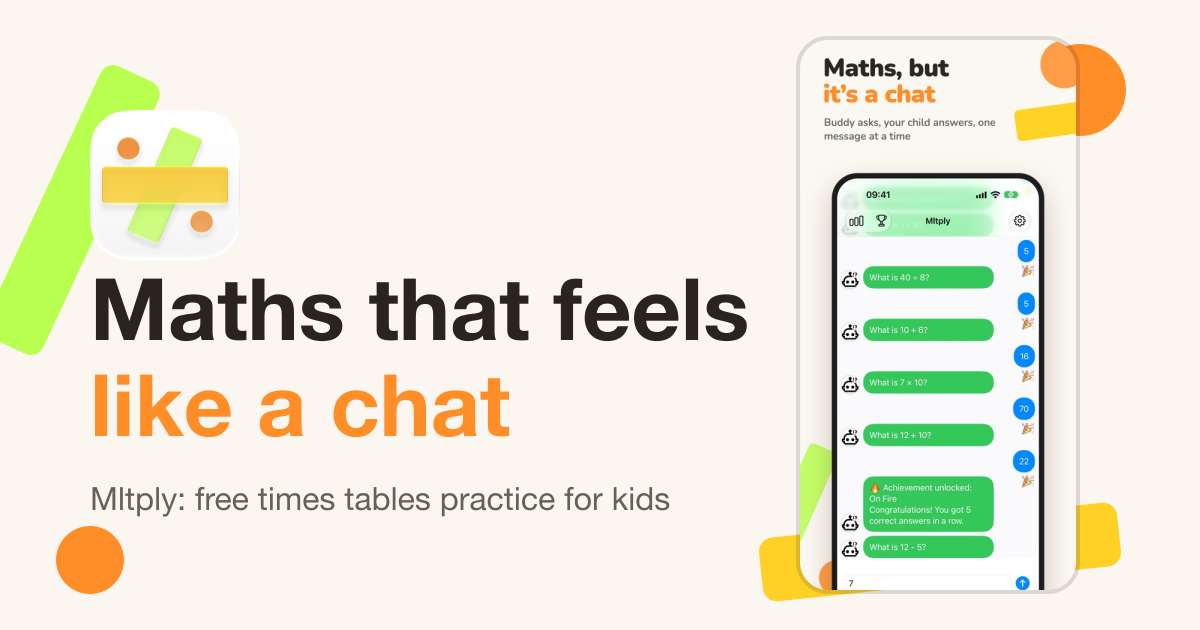
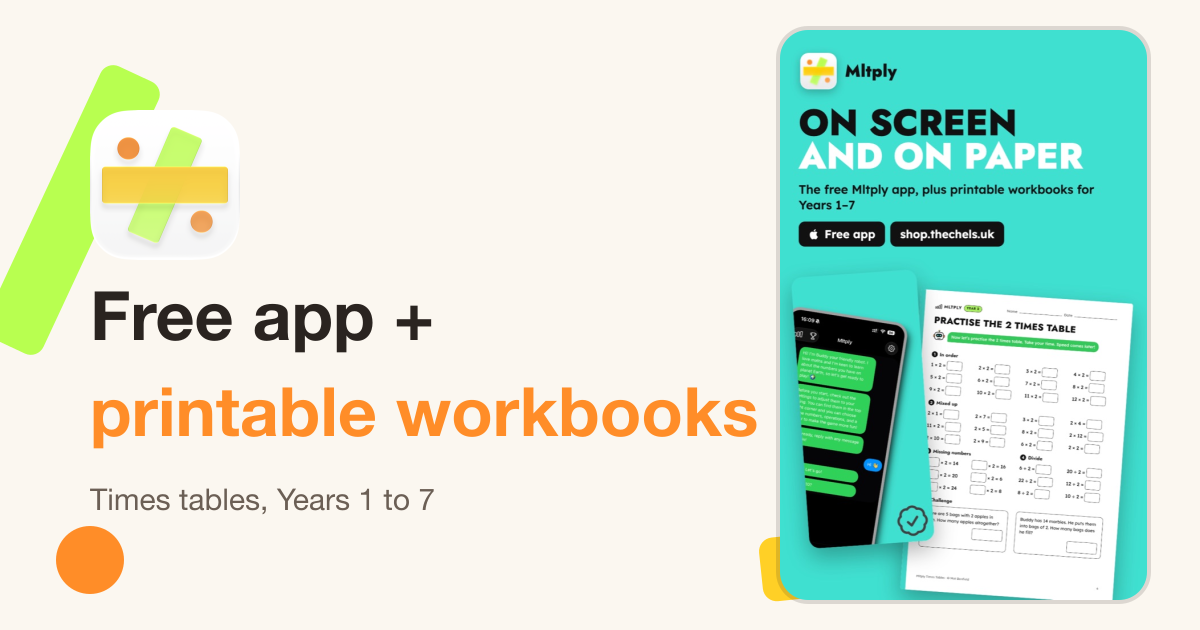
Reposition site as a complete package: free app plus printable workbooks

Changed region(s): [[0.0617, 0.0302, 0.9867, 0.9651], [0.0617, 0.754, 0.555, 0.8143]]

diff --git a/index.html b/index.html
@@ -6,23 +6,23 @@
     <meta name="theme-color" content="#FBF7F0">
     <meta name="apple-itunes-app" content="app-id=6747147316">
     <meta name="color-scheme" content="light">
-    <meta name="description" content="Mltply is a free maths quiz for kids that feels like a chat. Buddy the robot asks, your child answers: times tables, adding, taking away and dividing, with streaks and achievements. No ads, no sign-up.">
+    <meta name="description" content="A complete times tables package: a free app for daily practice with Buddy the robot, plus printable maths workbooks for Years 1 to 7, with answers. No ads, no sign-up.">
     <link rel="canonical" href="https://mltply.thechels.uk/">
     <meta property="og:type" content="website">
     <meta property="og:site_name" content="Mltply">
     <meta property="og:url" content="https://mltply.thechels.uk/">
-    <meta property="og:title" content="Mltply: Maths that feels like a chat">
-    <meta property="og:description" content="A free maths quiz for kids. Buddy the robot asks, your child answers: times tables, adding, taking away and dividing. No ads, no sign-up, nothing to buy.">
+    <meta property="og:title" content="Mltply: Free maths app and printable workbooks">
+    <meta property="og:description" content="The complete times tables package: a free app for daily practice with Buddy the robot, plus printable maths workbooks for Years 1 to 7, with answers.">
     <meta property="og:image" content="https://mltply.thechels.uk/images/og-image.png">
     <meta property="og:image:width" content="1200">
     <meta property="og:image:height" content="630">
-    <meta property="og:image:alt" content="Mltply: maths that feels like a chat, with the app icon and a chat between Buddy the robot and a child">
+    <meta property="og:image:alt" content="Mltply: free app and printable workbooks, shown with the app icon and a workbook page">
     <meta name="twitter:card" content="summary_large_image">
-    <meta name="twitter:title" content="Mltply: Maths that feels like a chat">
-    <meta name="twitter:description" content="A free maths quiz for kids. Buddy the robot asks, your child answers. No ads, no sign-up, nothing to buy.">
+    <meta name="twitter:title" content="Mltply: Free maths app and printable workbooks">
+    <meta name="twitter:description" content="A free app with Buddy the robot, plus printable maths workbooks for Years 1 to 7.">
     <meta name="twitter:image" content="https://mltply.thechels.uk/images/og-image.png">
-    <meta name="twitter:image:alt" content="Mltply: maths that feels like a chat, with the app icon and a chat between Buddy the robot and a child">
-    <title>Mltply: Maths that feels like a chat</title>
+    <meta name="twitter:image:alt" content="Mltply: free app and printable workbooks, shown with the app icon and a workbook page">
+    <title>Mltply: Free maths app and printable workbooks</title>
     <link rel="icon" href="images/mltply-icon.png" type="image/png">
     <link rel="apple-touch-icon" href="images/mltply-icon.png">
     <link rel="stylesheet" href="styles.css">
@@ -43,7 +43,7 @@
         "image": "https://mltply.thechels.uk/images/mltply-icon.png",
         "screenshot": "https://mltply.thechels.uk/images/01-chat.jpg",
         "downloadUrl": "https://apps.apple.com/gb/app/mltply-math-quiz-for-kids/id6747147316",
-        "description": "A free maths quiz for kids that feels like a chat. Buddy the robot asks, your child answers: times tables, adding, taking away and dividing, with streaks and achievements. No ads, no sign-up.",
+        "description": "A complete times tables package: a free app for daily practice with Buddy the robot, plus printable maths workbooks for Years 1 to 7, with answers. No ads, no sign-up.",
         "offers": {
           "@type": "Offer",
           "price": "0",
@@ -60,8 +60,8 @@
         <span>Mltply</span>
       </a>
       <nav class="header-links" aria-label="Main navigation">
-        <a href="#how">How it works</a>
-        <a href="#paper">On paper</a>
+        <a href="#paper">Workbooks</a>
+        <a href="#how">The app</a>
         <a href="https://thechels.uk/app/privacy">Privacy</a>
         <a class="header-cta" href="https://apps.apple.com/gb/app/mltply-math-quiz-for-kids/id6747147316">Get the app <span aria-hidden="true">↗</span></a>
       </nav>
@@ -70,28 +70,73 @@
     <main id="top">
       <section class="hero" aria-labelledby="hero-title">
         <div class="hero-copy">
-          <p class="eyebrow">Free maths practice for kids</p>
-          <h1 id="hero-title"><span>Maths that feels</span> <em>like a chat</em></h1>
+          <p class="eyebrow">Times tables, on screen and on paper</p>
+          <h1 id="hero-title"><span>Practise maths</span> <em>the complete way</em></h1>
           <p class="hero-description">
-            Meet Buddy, a friendly maths robot. Buddy asks a question, your child types the answer,
-            and the chat carries on. Times tables, adding, taking away and dividing, one message at a time.
+            A free app where Buddy the robot asks the questions in a chat, plus printable workbooks for Years 1 to 7
+            with the answers worked out. Daily practice on screen, proper practice on paper.
           </p>
           <div class="hero-actions">
+            <a class="button primary" href="https://shop.thechels.uk">Get the workbooks <span aria-hidden="true">↗</span></a>
             <a class="app-store-button" href="https://apps.apple.com/gb/app/mltply-math-quiz-for-kids/id6747147316">
               <img src="images/app-store-badge.svg" alt="Download on the App Store" width="120" height="40">
             </a>
-            <span class="hero-note">iPhone · Free · No ads · No sign-up</span>
           </div>
+          <p class="hero-note">Free app for iPhone · Printables on <a href="https://shop.thechels.uk">Gumroad</a> and <a href="https://www.etsy.com/shop/thechelsuk">Etsy</a></p>
         </div>
         <figure class="hero-art">
-          <img src="images/01-chat.jpg" alt="The Mltply chat: Buddy the robot asks What is 40 ÷ 8? and What is 7 × 10?, and the child's answers appear as blue bubbles, with an On Fire achievement after five right in a row" width="460" height="1000" fetchpriority="high">
+          <img src="images/paper.jpg" alt="On screen and on paper: the free Mltply app beside a printable times tables workbook page for Years 1 to 7" width="666" height="1000" fetchpriority="high">
         </figure>
+      </section>
+
+      <section class="package section-wrap" id="package" aria-labelledby="package-title">
+        <div class="section-intro">
+          <p class="eyebrow">One package, two ways to practise</p>
+          <h2 id="package-title">Everything for times tables, <em>in one place</em></h2>
+        </div>
+        <div class="two-up">
+          <article class="half paper-half">
+            <span class="badge">📄</span>
+            <h3>Printable workbooks</h3>
+            <p>Print at home or in the classroom for focused practice with a pencil. Every page has the answers, so marking takes minutes.</p>
+          </article>
+          <article class="half app-half">
+            <span class="badge">📱</span>
+            <h3>Free app with Buddy</h3>
+            <p>Quick daily practice that feels like a chat. Free, with no ads, no sign-up and nothing to buy, so it's easy to make a habit.</p>
+          </article>
+        </div>
+      </section>
+
+      <section class="paper section-wrap" id="paper" aria-labelledby="paper-title">
+        <div class="paper-inner">
+          <figure class="paper-art">
+            <img src="images/paper.jpg" alt="A printable Mltply times tables workbook page beside the app, for Years 1 to 7" width="666" height="1000" loading="lazy">
+          </figure>
+          <div class="paper-copy">
+            <p class="eyebrow">The Mltply printable workbooks</p>
+            <h2 id="paper-title">Workbooks for home and the classroom</h2>
+            <p>Printable maths workbooks for Years 1 to 7 that follow England's national curriculum. Made for parents practising at the kitchen table and teachers setting work in class, and Buddy the robot from the app is on the pages too.</p>
+            <ul class="tick-list">
+              <li>Times tables 2 to 12, and division 2 to 12</li>
+              <li>Addition and subtraction, and fractions</li>
+              <li>Squares, cubes and roots, plus KS2 SATs arithmetic practice papers</li>
+              <li>Every answer worked out and checked by computer</li>
+              <li>Instant PDF downloads: print as often as you like</li>
+            </ul>
+            <p class="price-note">On Etsy: single workbooks from £5.99, or the Years 1 to 7 bundle for £17.99.</p>
+            <div class="paper-links">
+              <a class="button" href="https://shop.thechels.uk">Shop on Gumroad <span aria-hidden="true">↗</span></a>
+              <a class="button alt" href="https://www.etsy.com/shop/thechelsuk">Shop on Etsy <span aria-hidden="true">↗</span></a>
+            </div>
+          </div>
+        </div>
       </section>
 
       <section class="how section-wrap" id="how" aria-labelledby="how-title">
         <div class="section-intro">
-          <p class="eyebrow">Like texting a friend</p>
-          <h2 id="how-title">Practice that doesn't feel like homework</h2>
+          <p class="eyebrow">The free app</p>
+          <h2 id="how-title">Daily practice that feels like a chat</h2>
           <p>Short questions keep the pace up, and a little repetition every day builds speed and confidence without the pressure of a worksheet.</p>
         </div>
         <div class="feature-grid">
@@ -117,24 +162,7 @@
         </div>
       </section>
 
-      <section class="paper section-wrap" id="paper" aria-labelledby="paper-title">
-        <div class="paper-inner">
-          <figure class="paper-art">
-            <img src="images/paper.jpg" alt="On screen and on paper: the free Mltply app beside a printable times tables workbook page for Years 1 to 7" width="666" height="1000" loading="lazy">
-          </figure>
-          <div class="paper-copy">
-            <p class="eyebrow">Away from the screen</p>
-            <h2 id="paper-title">Practise on paper too</h2>
-            <p>Some children love a pencil. Printable Mltply workbooks for Years 1 to 7 cover times tables, division, fractions and more, with answers included, and Buddy turns up on the pages too. There's a free sampler to try first.</p>
-            <div class="paper-links">
-              <a class="button" href="https://shop.thechels.uk">Workbooks on Gumroad <span aria-hidden="true">↗</span></a>
-              <a class="button alt" href="https://www.etsy.com/shop/thechelsuk">Digital downloads on Etsy <span aria-hidden="true">↗</span></a>
-            </div>
-          </div>
-        </div>
-      </section>
-
-      <section class="privacy-section section-wrap" aria-labelledby="privacy-title">
+            <section class="privacy-section section-wrap" aria-labelledby="privacy-title">
         <div class="privacy-inner">
           <p class="eyebrow">Safe for little hands</p>
           <h2 id="privacy-title">No ads. No sign-up. <em>Nothing to buy.</em></h2>
@@ -147,12 +175,16 @@
       </section>
 
       <section class="closing-cta" aria-labelledby="closing-title">
-        <p class="eyebrow">Free · iPhone</p>
-        <h2 id="closing-title">Ready when <em>Buddy</em> is</h2>
-        <p>Download Mltply and let Buddy ask the first question. A few minutes a day is all it takes.</p>
-        <a class="app-store-button" href="https://apps.apple.com/gb/app/mltply-math-quiz-for-kids/id6747147316">
-          <img src="images/app-store-badge.svg" alt="Download on the App Store" width="120" height="40">
-        </a>
+        <p class="eyebrow">Free app · Printable workbooks</p>
+        <h2 id="closing-title">Download the app. <em>Print the workbooks.</em></h2>
+        <p>Start with the free app and let Buddy ask the first question, then add workbooks for practice away from the screen.</p>
+        <div class="hero-actions closing-actions">
+          <a class="app-store-button" href="https://apps.apple.com/gb/app/mltply-math-quiz-for-kids/id6747147316">
+            <img src="images/app-store-badge.svg" alt="Download on the App Store" width="120" height="40">
+          </a>
+          <a class="button primary" href="https://shop.thechels.uk">Gumroad ↗</a>
+          <a class="button alt outline" href="https://www.etsy.com/shop/thechelsuk">Etsy ↗</a>
+        </div>
       </section>
     </main>
 
@@ -161,9 +193,10 @@
         <img src="images/mltply-icon.png" alt="" width="32" height="32">
         <span>Mltply</span>
       </a>
-      <span class="footer-caption">Maths that feels like a chat.</span>
+      <span class="footer-caption">Free app and printable workbooks.</span>
       <div class="footer-links">
         <a href="https://thechels.uk/app/privacy">Privacy</a>
+        <a href="https://shop.thechels.uk">Workbooks</a>
         <a href="https://thechels.uk/projects/mltply">About</a>
         <a href="https://github.com/thechelsuk/com.uk.thechels.mltply">GitHub ↗</a>
         <a href="https://apps.apple.com/gb/app/mltply-math-quiz-for-kids/id6747147316">App Store ↗</a>

diff --git a/styles.css b/styles.css
@@ -30,13 +30,14 @@ h1,h2,h3{font-weight:800}
 .hero h1 em{display:block}
 .hero-description{max-width:520px;font-size:19px;color:var(--muted)}
 .hero-actions{display:flex;flex-wrap:wrap;align-items:center;gap:18px 22px;margin-top:30px}
-.hero-note{color:var(--muted);font-size:14px;font-weight:600}
+.hero-note{margin:20px 0 0;color:var(--muted);font-size:14px;font-weight:600}
+.hero-note a{text-decoration:underline}
 .app-store-button{display:inline-block;border-radius:9px;transition:transform 160ms ease,box-shadow 160ms ease}
 .app-store-button:hover{transform:translateY(-2px);box-shadow:0 8px 24px rgba(42,36,32,.25)}
 .app-store-button:focus-visible,.button:focus-visible{outline:3px solid var(--orange);outline-offset:4px}
 .app-store-button img{display:block;height:48px;width:auto}
 .hero-art{margin:0;justify-self:center}
-.hero-art img{display:block;width:min(100%,340px);border-radius:28px;box-shadow:0 30px 60px rgba(42,36,32,.2),0 0 0 1px var(--line)}
+.hero-art img{display:block;width:min(100%,380px);border-radius:28px;box-shadow:0 30px 60px rgba(42,36,32,.2),0 0 0 1px var(--line)}
 .section-wrap{padding:80px 0 0}
 .section-intro{max-width:680px;margin-bottom:36px}
 .section-intro p:last-child{color:var(--muted);font-size:18px}
@@ -92,6 +93,23 @@ h2{font-size:clamp(32px,5vw,54px);line-height:1.08;margin-bottom:16px;letter-spa
   .privacy-inner{padding:32px 24px}
   .section-wrap{padding-top:60px}
   .hero::before{left:-90px}
+  .hero::after{display:none}
   .site-footer{flex-direction:column;align-items:flex-start}
 }
 @media (prefers-reduced-motion:reduce){html{scroll-behavior:auto}.app-store-button,.button{transition:none}}
+.button.primary{background:var(--orange);color:var(--ink);padding:14px 26px;font-size:17px;box-shadow:0 6px 0 var(--orange-dk)}
+.button.primary:hover{transform:translateY(-2px)}
+.button.outline{border:2px solid var(--ink);background:transparent}
+.closing-actions{justify-content:center;margin-top:24px}
+.two-up{display:grid;grid-template-columns:1fr 1fr;gap:20px}
+.half{padding:28px;border-radius:24px}
+.half h3{font-size:24px;margin:12px 0 8px}
+.half p{margin:0;font-size:17px}
+.paper-half{background:#8CF0E4;color:#12332F}
+.app-half{background:var(--yellow)}
+.half .badge{background:rgba(255,255,255,.6)}
+.tick-list{list-style:none;padding:0;margin:0 0 18px;display:grid;gap:8px;color:#12332F;font-size:17px}
+.tick-list li{padding-left:28px;position:relative}
+.tick-list li::before{content:"✓";position:absolute;left:0;font-weight:800}
+.price-note{font-weight:700}
+@media (max-width:960px){.two-up{grid-template-columns:1fr}}

diff --git a/README.md b/README.md
@@ -1,36 +1,34 @@
-# Mltply: maths that feels like a chat
+# Mltply: free maths app and printable workbooks
 
 [![Download on the App Store](images/app-store-badge.svg)](https://apps.apple.com/gb/app/mltply-math-quiz-for-kids/id6747147316)
 
-**Mltply** is a free maths quiz app for kids on iPhone. Buddy, a friendly maths robot, asks the questions in a chat, and your child types the answers. Times tables, adding, taking away and dividing, one message at a time, with no ads, no sign-up and nothing to buy.
+**Mltply** is a complete times tables practice package for primary-age children: a **free iPhone app** for daily practice with Buddy the robot, plus **printable maths workbooks** for Years 1 to 7, with every answer worked out. Made for parents practising at home and teachers in the classroom.
 
 This repository is the marketing website, live at **[mltply.thechels.uk](https://mltply.thechels.uk/)**.
 
-![Mltply: Buddy asks, your child answers](images/01-chat.jpg)
-
-## Why parents and teachers like it
-
-- **It feels like texting a friend.** A chat-style interface makes maths practice less intimidating than a worksheet.
-- **Times tables practice that sticks.** Choose numbers 1 to 12, so children can focus on the tables they're learning, such as for the Year 4 multiplication check.
-- **Four operations.** Addition, subtraction, multiplication and division, switched on or off to match what your child is learning.
-- **In order or shuffled.** Work up a table step by step, then shuffle the questions for a challenge.
-- **Streaks and achievements.** Unlock achievements for streaks, each number and operation, and milestones, to keep motivation high.
-- **Beat the clock.** Add a timer and chase a personal best, with levels from Starter and Explorer to Champion and GOAT.
-- **Private and safe.** Free, with no in-app purchases, no subscriptions, no ads and no data sharing. [Privacy policy](https://thechels.uk/app/privacy).
-- **Open source.** The app's code is on [GitHub](https://github.com/thechelsuk/com.uk.thechels.mltply).
-
-## Practise on paper too
-
-Printable Mltply maths workbooks for Years 1 to 7, covering times tables, division, fractions and more, all with answers:
-
-- [Gumroad store](https://shop.thechels.uk): printable workbooks, including a free sampler
-- [Etsy shop](https://www.etsy.com/shop/thechelsuk): digital downloads
-
 ![On screen and on paper](images/paper.jpg)
 
-## Get the app
+## Printable maths workbooks
 
-[Mltply: Math Quiz for Kids on the App Store](https://apps.apple.com/gb/app/mltply-math-quiz-for-kids/id6747147316). Free for iPhone.
+Instant PDF downloads that follow England's national curriculum, starring Buddy the robot from the app:
+
+- Times tables 2 to 12 and division 2 to 12
+- Addition and subtraction, and fractions
+- Squares, cubes and roots, plus KS2 SATs arithmetic practice papers
+- Every answer worked out and checked by computer
+
+Get them from the [Gumroad store](https://shop.thechels.uk) or the [Etsy shop](https://www.etsy.com/shop/thechelsuk) (single workbooks from £5.99, the Years 1 to 7 bundle £17.99).
+
+## The free app
+
+Buddy asks, your child answers, in a chat. Free on the [App Store](https://apps.apple.com/gb/app/mltply-math-quiz-for-kids/id6747147316), with no ads, no sign-up, no in-app purchases and no data sharing. [Privacy policy](https://thechels.uk/app/privacy).
+
+![Mltply: Buddy asks, your child answers](images/01-chat.jpg)
+
+- **It feels like texting a friend**, so practice is less intimidating than a worksheet.
+- **Times tables 1 to 12**: choose the tables, in order or shuffled, with addition, subtraction, multiplication and division.
+- **Streaks and achievements** keep motivation high, and a timer adds a challenge, with levels from Starter to GOAT.
+- **Open source**: the code is on [GitHub](https://github.com/thechelsuk/com.uk.thechels.mltply).
 
 ## About this site
 
